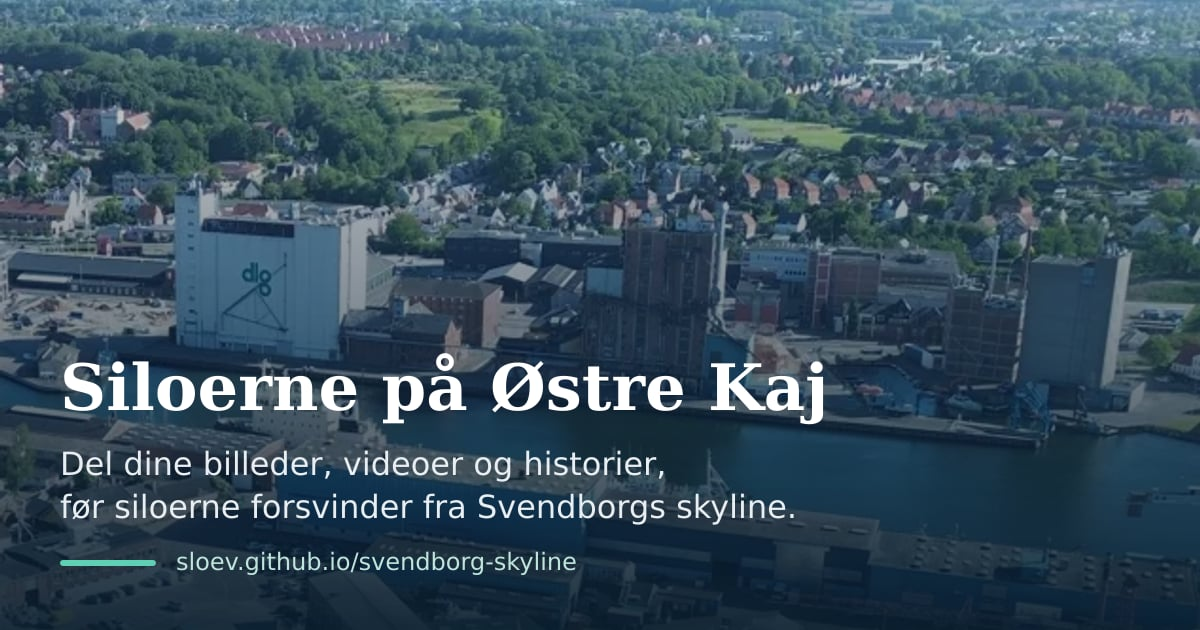
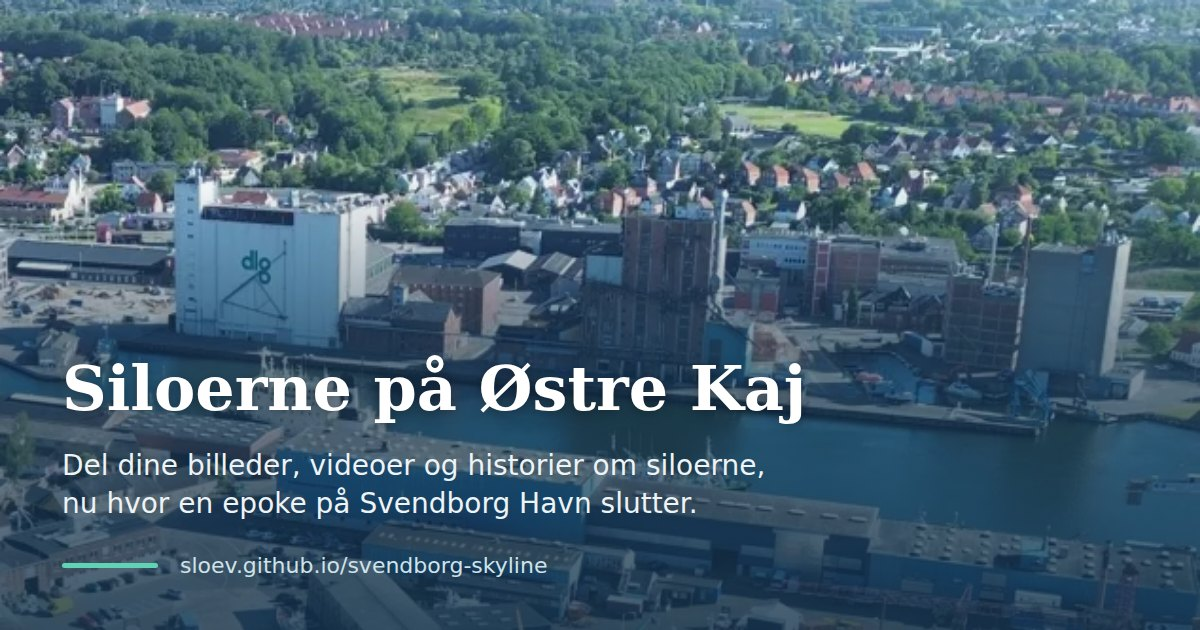
Siloerne skal ikke nødvendigvis rives ned: ny tekst om at en epoke slutter
Siloerne holder op med at fungere som siloer, men bygningernes fremtid er
ikke afgjort. Forsidens overskrift og indledning (da/en/de), beskrivelser
til deling, delebilledet og PDF-arkivets indledning er rettet, og
begivenheden i navneordbogen hedder nu »Debatten om nedrivning«.

Claude-Session: https://claude.ai/code/session_013fu36QjsDTodXK8qzQjJSh

diff --git a/public/index.html b/public/index.html
@@ -6,13 +6,13 @@
   <meta name="referrer" content="strict-origin-when-cross-origin">
   <meta name="viewport" content="width=device-width, initial-scale=1">
   <title>Siloerne på Østre Kaj – del dine billeder og minder</title>
-  <meta name="description" content="Siloerne på Østre Kaj i Svendborg skal rives ned. Del dine billeder, videoer, historier og minder om siloerne, før de forsvinder fra byens skyline.">
+  <meta name="description" content="Siloerne på Østre Kaj i Svendborg holder op med at fungere som siloer, og deres fremtid er endnu ikke afgjort. Del dine billeder, videoer, historier og minder om siloerne i det fælles arkiv.">
   <meta property="og:title" content="Siloerne på Østre Kaj – del dine billeder og minder">
-  <meta property="og:description" content="Hjælp med at samle billeder, videoer og historier om siloerne på Svendborg Havn, før de rives ned.">
+  <meta property="og:description" content="Hjælp med at samle billeder, videoer og historier om siloerne på Svendborg Havn, nu hvor en epoke på havnen slutter.">
   <meta property="og:type" content="website">
   <meta property="og:site_name" content="Siloerne på Østre Kaj">
   <meta property="og:url" content="https://sloev.github.io/svendborg-skyline/">
-  <meta property="og:image" content="https://sloev.github.io/svendborg-skyline/og.jpg">
+  <meta property="og:image" content="https://sloev.github.io/svendborg-skyline/og.jpg?v=2">
   <meta property="og:image:width" content="1200">
   <meta property="og:image:height" content="630">
   <meta property="og:image:alt" content="Siloerne på Østre Kaj set fra luften">
@@ -21,8 +21,8 @@
   <meta property="og:locale:alternate" content="de_DE">
   <meta name="twitter:card" content="summary_large_image">
   <meta name="twitter:title" content="Siloerne på Østre Kaj – del dine billeder og minder">
-  <meta name="twitter:description" content="Hjælp med at samle billeder, videoer og historier om siloerne på Svendborg Havn, før de rives ned.">
-  <meta name="twitter:image" content="https://sloev.github.io/svendborg-skyline/og.jpg">
+  <meta name="twitter:description" content="Hjælp med at samle billeder, videoer og historier om siloerne på Svendborg Havn, nu hvor en epoke på havnen slutter.">
+  <meta name="twitter:image" content="https://sloev.github.io/svendborg-skyline/og.jpg?v=2">
   <link rel="canonical" href="https://sloev.github.io/svendborg-skyline/">
   <meta name="theme-color" content="#14324a">
   <link rel="icon" href="favicon.svg" type="image/svg+xml">
@@ -30,7 +30,7 @@
   <link rel="preconnect" href="https://fonts.gstatic.com" crossorigin>
   <link href="https://fonts.googleapis.com/css2?family=Fraunces:opsz,wght@9..144,600;9..144,800&family=Inter:wght@400;500;600&display=swap" rel="stylesheet">
   <link rel="stylesheet" href="https://unpkg.com/leaflet@1.9.4/dist/leaflet.css" integrity="sha256-p4NxAoJBhIIN+hmNHrzRCf9tD/miZyoHS5obTRR9BMY=" crossorigin="">
-  <link rel="stylesheet" href="style.css?v=20261006a">
+  <link rel="stylesheet" href="style.css?v=20261006b">
   <script src="https://challenges.cloudflare.com/turnstile/v0/api.js?render=explicit" async defer></script>
 </head>
 <body>
@@ -62,8 +62,8 @@
       <img class="hero-img" src="img/havnen-luftfoto.webp" data-i18n-alt="hero.alt" alt="Luftfoto af Svendborg Havn med de store hvide og røde silobygninger på Østre Kaj">
       <div class="hero-inner">
         <p class="eyebrow">Svendborg Havn · Østre Kaj</p>
-        <h1 data-i18n="hero.h1">Siloerne forsvinder snart.<br>Hjælp med at huske dem.</h1>
-        <p class="lead" data-i18n="hero.lead">Siloerne har i årtier været en del af Svendborgs skyline. Nu skal de rives ned. Vi samler billeder, videoer, lydoptagelser, historier og ting til et fælles arkiv, før de forsvinder.</p>
+        <h1 data-i18n="hero.h1">En epoke på havnen slutter.<br>Hjælp med at huske den.</h1>
+        <p class="lead" data-i18n="hero.lead">I årtier har siloerne på Østre Kaj været en del af Svendborgs skyline og af arbejdslivet på havnen. Nu holder de op med at fungere som siloer, og hvad der skal ske med bygningerne, er endnu ikke afgjort. Uanset hvad fremtiden bringer, samler vi billeder, videoer, lydoptagelser, historier og ting til et fælles arkiv, mens minderne stadig er friske.</p>
         <div class="hero-actions">
           <a class="btn btn-primary" href="#del" data-i18n="hero.cta1">Del billeder og minder</a>
           <a class="btn btn-ghost" href="#bidrag" data-i18n="hero.cta2">Se hvad andre har delt</a>
@@ -367,9 +367,9 @@
   </dialog>
 
   <script src="https://unpkg.com/leaflet@1.9.4/dist/leaflet.js" integrity="sha256-20nQCchB9co0qIjJZRGuk2/Z9VM+kNiyxNV1lvTlZBo=" crossorigin="" defer></script>
-  <script src="config.js?v=20261006a"></script>
-  <script src="i18n.js?v=20261006a"></script>
-  <script src="editor.js?v=20261006a"></script>
-  <script src="app.js?v=20261006a" defer></script>
+  <script src="config.js?v=20261006b"></script>
+  <script src="i18n.js?v=20261006b"></script>
+  <script src="editor.js?v=20261006b"></script>
+  <script src="app.js?v=20261006b" defer></script>
 </body>
 </html>

diff --git a/public/i18n.js b/public/i18n.js
@@ -63,8 +63,8 @@ window.I18N = (() => {
       'nav.map': 'Map',
       'nav.share': 'Share yours',
       'hero.alt': 'Aerial photo of Svendborg harbour with the large white and red silo buildings on Østre Kaj',
-      'hero.h1': 'The silos will soon be gone.<br>Help remember them.',
-      'hero.lead': 'For decades the silos have been part of the Svendborg skyline. Now they are to be demolished. We are collecting photos, videos, sound recordings, stories and objects for a shared archive before they disappear.',
+      'hero.h1': 'An era on the harbour is ending.<br>Help us remember it.',
+      'hero.lead': 'For decades the silos on Østre Kaj have been part of the Svendborg skyline and of working life on the harbour. Now they are ceasing to be used as silos, and what will happen to the buildings has not yet been decided. Whatever the future holds, we are collecting photos, videos, sound recordings, stories and objects for a shared archive while the memories are still fresh.',
       'hero.cta1': 'Share photos and memories',
       'hero.cta2': 'See what others have shared',
       'stat.contributions': 'contributions',
@@ -211,8 +211,8 @@ window.I18N = (() => {
       'nav.map': 'Karte',
       'nav.share': 'Beitrag teilen',
       'hero.alt': 'Luftbild des Hafens von Svendborg mit den großen weißen und roten Silogebäuden am Østre Kaj',
-      'hero.h1': 'Die Silos verschwinden bald.<br>Hilf mit, sie in Erinnerung zu behalten.',
-      'hero.lead': 'Seit Jahrzehnten gehören die Silos zur Skyline von Svendborg. Jetzt sollen sie abgerissen werden. Wir sammeln Fotos, Videos, Tonaufnahmen, Geschichten und Gegenstände für ein gemeinsames Archiv, bevor sie verschwinden.',
+      'hero.h1': 'Eine Ära am Hafen geht zu Ende.<br>Hilf mit, sie in Erinnerung zu behalten.',
+      'hero.lead': 'Seit Jahrzehnten gehören die Silos am Østre Kaj zur Skyline von Svendborg und zum Arbeitsleben im Hafen. Jetzt werden sie nicht mehr als Silos genutzt, und was mit den Gebäuden geschieht, ist noch nicht entschieden. Was auch immer die Zukunft bringt: Wir sammeln Fotos, Videos, Tonaufnahmen, Geschichten und Gegenstände für ein gemeinsames Archiv, solange die Erinnerungen noch frisch sind.',
       'hero.cta1': 'Fotos und Erinnerungen teilen',
       'hero.cta2': 'Sehen, was andere geteilt haben',
       'stat.contributions': 'Beiträge',
